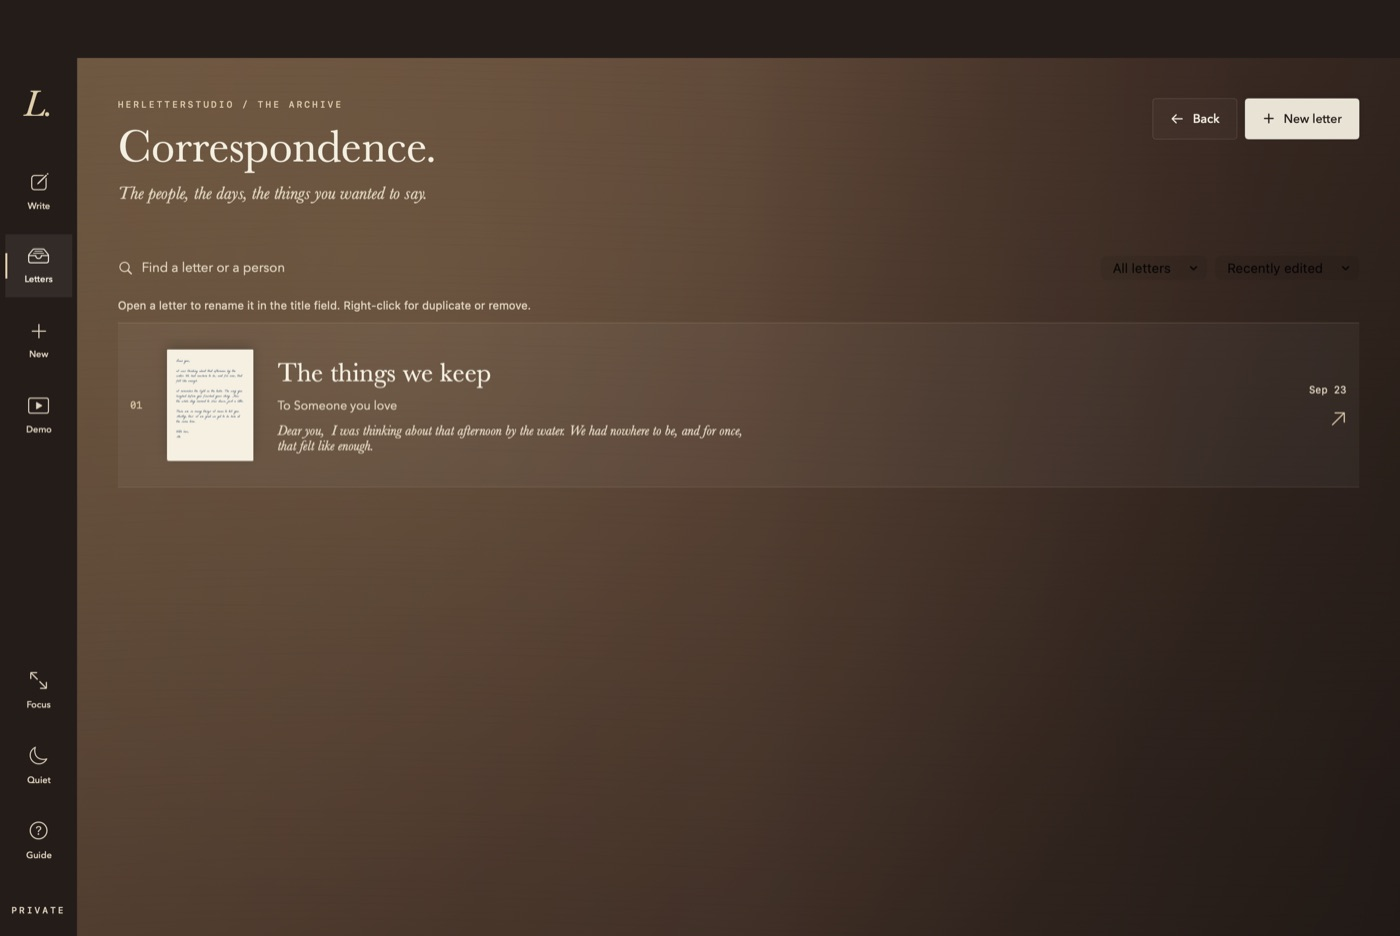
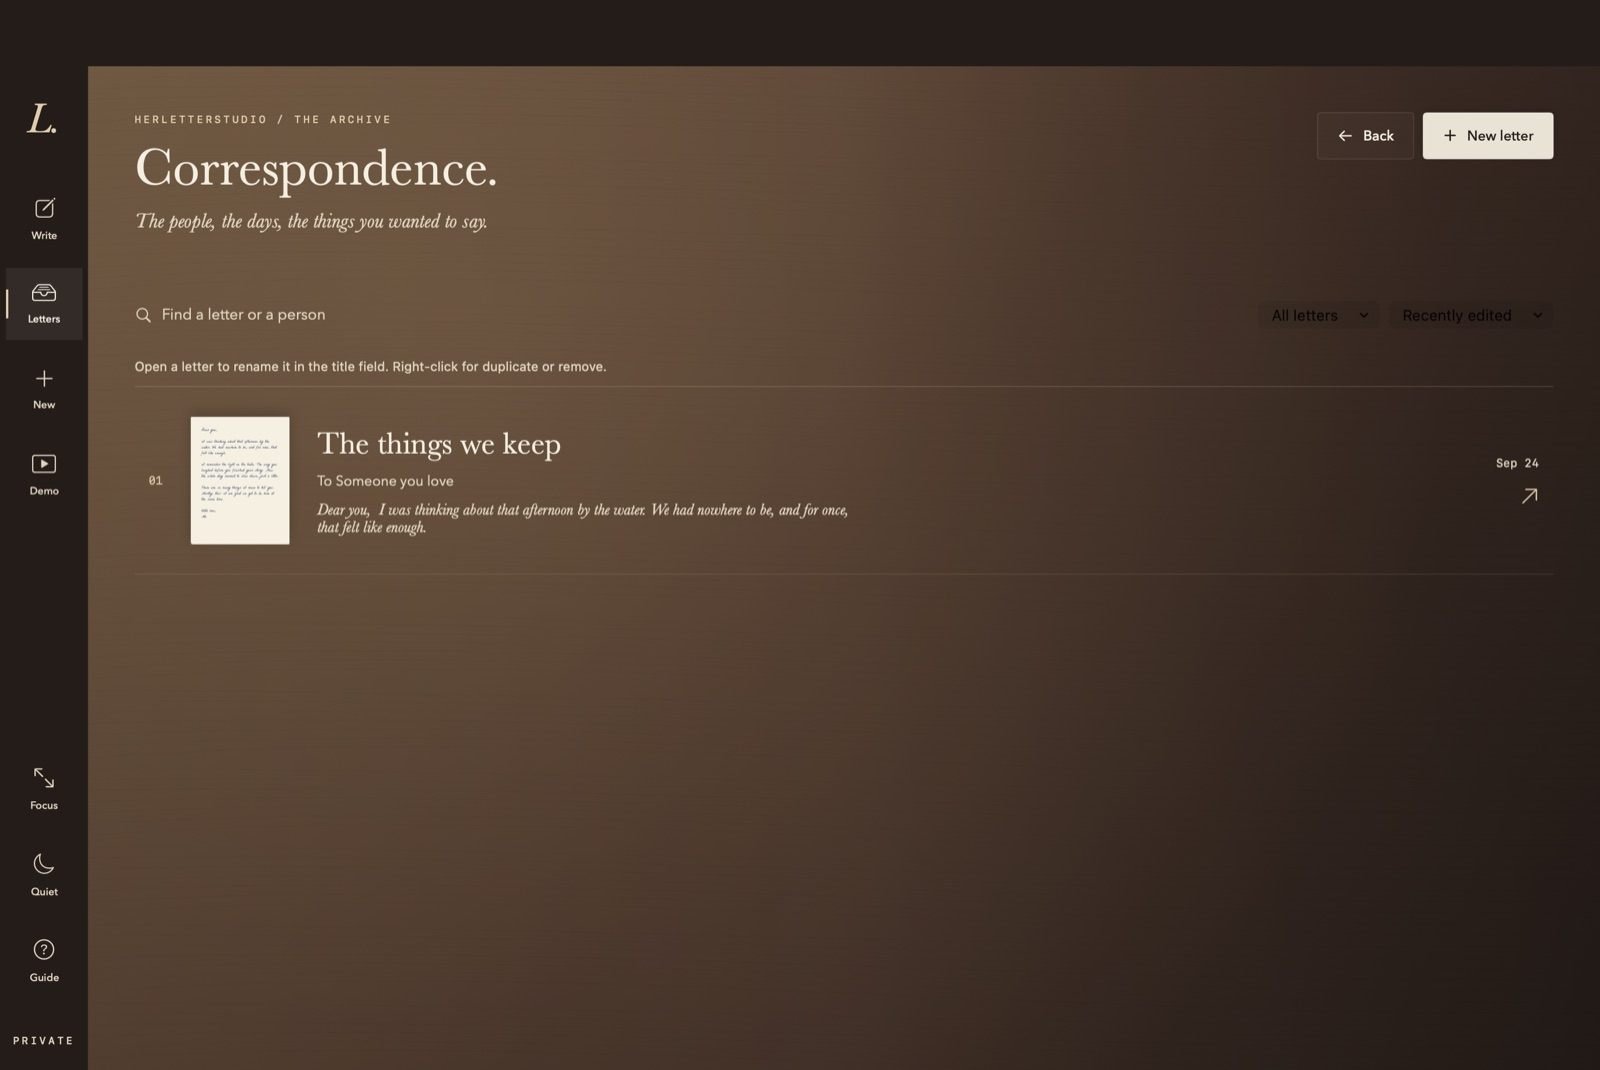
Rewrite README with feature screenshots

diff --git a/README.md b/README.md
@@ -1,50 +1,187 @@
-# HerLetterStudio
+<h1 align="center">HerLetterStudio</h1>
 
-Some letters deserve more than a font. HerLetterStudio is a native Mac writing desk inspired by *Her*: you speak or type your words, and they appear in handwriting on paper — ink, stationery, and all. When the page is right, print it or keep it as a PDF.
+<p align="center">
+  <img src="https://img.shields.io/badge/macOS-26-3E3028?style=flat&logo=apple&logoColor=white" alt="macOS 26" />
+  <img src="https://img.shields.io/badge/Swift-6.2-F05138?style=flat&logo=swift&logoColor=white" alt="Swift 6.2" />
+  <img src="https://img.shields.io/badge/SwiftUI-native-A5533D?style=flat" alt="Native SwiftUI" />
+  <img src="https://img.shields.io/badge/dictation-on--device-706154?style=flat" alt="On-device dictation" />
+  <img src="https://img.shields.io/badge/account-none-E1CDA6?style=flat" alt="No account needed" />
+</p>
 
-Dictation runs on-device. No account, no cloud, no paid API. Requires macOS 26.
+<p align="center">
+  <strong>The letter-writing desk from <em>Her</em>, on your Mac.</strong><br/>
+  Speak or type your words and watch them arrive in handwriting — ink, stationery, and all. Then print it, or keep it as a PDF.
+</p>
 
-![The writing desk: a letter in the Aurore hand on ivory paper, with the Context folio beside it](docs/screenshots/desk.jpg)
+<h3 align="center"><a href="#build"><ins>Build it locally</ins></a></h3>
 
-## Try it in 5 minutes
+<p align="center">
+  <img src="docs/screenshots/readme-hero.jpg" alt="The writing desk: a letter in the Aurore hand on ivory paper, with the Context folio beside it" width="960" />
+</p>
 
-No microphone needed. The app comes with a guided sample:
+## Features
 
-1. Build and open the app (see [Build](#build)), then click **Demo** in the left rail.
-2. Click **Open the sample letter**. You'll get "Twenty-eight ordinary years" — a fictional anniversary letter with a client brief, two credited reference photos, Parisienne lettering, and sepia ink on a one-page layout. Your current letter is saved first.
-3. In the sample Context folio, press **Watch** to replay the ink reveal, **Try an edit** for a prepared voice instruction, or **Print** for the real output preview.
+<table>
+<tr>
+<td width="50%" valign="middle">
 
-That's a finished letter, saved in Letters. Reopen it anytime — the letter and photos stay. Demo always opens a fresh copy. Now write one of your own.
+### Say It, Then Shape It
 
-## Say it, then shape it
+Press **Begin dictation** and talk — your words land on the page as you speak. Then fix them hands-free: *"Replace afternoon with evening."* *"Delete the last sentence."* Plain speech is always letter text, never a command.
 
-Press the microphone button and talk. Your words land on the page in your chosen hand while you speak. English recognition runs on-device; Apple may download speech assets the first time.
+[Voice edit list →](#voice-edits)
 
-Then open **Writing** and make it yours — fix a phrase, read it back, or open the spacious editor when you want room to think.
+</td>
+<td width="50%">
+  <img src="docs/screenshots/voice.jpg" alt="The Voice Edit panel with example instructions" width="100%" />
+</td>
+</tr>
+<tr>
+<td width="50%" valign="middle">
 
-![The Writing panel: "Every word matters", with the letter text and Read aloud close by](docs/screenshots/writing.jpg)
+### Give It a Feeling
 
-Corrections work hands-free too. In **Voice Edit**, press Speak an edit, say what you want, and Apply edit — or type the instruction instead. "Replace afternoon with evening." "Delete the last sentence." "Make it bigger." Plain speech here is treated as letter text, never as a command.
+Choose how your words sit on the page — **Tender**, **Familiar**, or **Reflective** hands, a resonance slider, and five inks from Cedar Blue-Black to Oxblood Sincerity. Presentation changes; your wording never does.
 
-## Give it a feeling
+</td>
+<td width="50%">
+  <img src="docs/screenshots/expression.jpg" alt="The Expression console with Tender selected and the resonance slider" width="100%" />
+</td>
+</tr>
+<tr>
+<td width="50%" valign="middle">
 
-Open **Expression** and choose how your words sit on the page: Tender, Familiar, or Reflective hands, a resonance slider, five inks, cotton to onion-skin stationery. These change presentation, never wording — the ink serves the letter, not the other way around.
+### Eleven Hands
 
-![The Expression console: Tender, Familiar, and Reflective hands above the resonance slider](docs/screenshots/expression.jpg)
+Seven bundled handwriting fonts and four Mac classics. Search by name or mood — try *"romantic"* or *"slanted"* — star your favorites, and preview your own letter in any hand.
 
-Eleven lettering styles live in **Fonts**, which searches names and moods (try "romantic" or "slanted"). Seven are bundled licensed handwriting fonts; four come with the Mac. Star your favorites and narrow the shelf to just those.
+</td>
+<td width="50%">
+  <img src="docs/screenshots/fonts.jpg" alt="The type collection with the Aurore specimen" width="100%" />
+</td>
+</tr>
+<tr>
+<td width="50%" valign="middle">
 
-## Keep everything
+### Choose the Paper
 
-Every letter lands in the archive — searchable, sortable, recoverable. Right-click to duplicate or set aside; rename by editing the title above the paper. **Drafts** keeps named versions across launches and always holds a safety copy before restoring. Drafts autosave under `~/Library/Application Support/HerLetterStudio`, and the File menu exports portable `.letter` files, references included. Everything stays on this Mac.
+Cotton rag, laid, vellum, onion skin, or cream bond, in four stationery colors, on US Letter or A4. Paper texture stays on screen unless you choose to print it.
 
-![The archive: past letters with their recipients and opening lines](docs/screenshots/archive.jpg)
+</td>
+<td width="50%">
+  <img src="docs/screenshots/paper.jpg" alt="The stationery drawer with paper materials and a live preview" width="100%" />
+</td>
+</tr>
+<tr>
+<td width="50%" valign="middle">
 
-Printing defaults to ink only; tick paper color to put the stationery tint on the page too. Zoom never changes print size. And **Quiet** in the rail stills all motion in one tap — dictation keeps working, the page just stops dancing.
+### A Finished Sample, Built In
 
-## Voice edits
+Click **Demo** for "Twenty-eight ordinary years" — a complete anniversary letter with a brief, two credited photos, and Parisienne lettering. Replay the ink, try an edit, print it. No microphone needed.
 
-Phrase edits need exactly one match. If an instruction is ambiguous, the text stays untouched and the panel tells you why. Up to 50 revisions per letter — wording, font, size, ink, expression — all undoable. History is session-local and clears when you switch letters.
+</td>
+<td width="50%">
+  <img src="docs/screenshots/sample.jpg" alt="The sample anniversary letter with its reference photographs" width="100%" />
+</td>
+</tr>
+<tr>
+<td width="50%" valign="middle">
+
+### Print or PDF
+
+Review the exact output before it leaves your Mac. Ink-only by default for real stationery, with paper color on request. Screen and PDF share one Core Text layout, so exported text stays selectable.
+
+</td>
+<td width="50%">
+  <img src="docs/screenshots/print.jpg" alt="Print review with the page preview, printer, and PDF options" width="100%" />
+</td>
+</tr>
+<tr>
+<td width="50%" valign="middle">
+
+### Drafts You Can Return To
+
+Keep named versions before you experiment. Restoring one always saves a safety copy of the current letter first, and drafts survive relaunches.
+
+</td>
+<td width="50%">
+  <img src="docs/screenshots/drafts.jpg" alt="The Drafts sheet with a kept version ready to restore" width="100%" />
+</td>
+</tr>
+<tr>
+<td width="50%" valign="middle">
+
+### An Archive of Correspondence
+
+Every letter is kept, searchable, and sortable. Right-click to duplicate or set one aside — removed letters wait in Recently Removed until you recover them.
+
+</td>
+<td width="50%">
+  <img src="docs/screenshots/archive.jpg" alt="The Correspondence archive listing a saved letter" width="100%" />
+</td>
+</tr>
+</table>
+
+**Also in the box:**
+
+- **Reference photos** — keep up to 12 photos and private notes beside a letter. They never print.
+- **Watch the ink** — replay the handwriting onto the page, or have the letter read aloud.
+- **Focus and Quiet** — hide the panels to just write, or still every animation in one tap.
+- **Fifty undo steps** — wording, hand, size, ink, and expression, all reversible.
+- **Portable `.letter` files** — export and reopen a letter with its photos and notes.
+- **Keyboard first** — ⌘N new, ⌘E edit, ⇧⌘D dictate, ⌘P print, ⌘S save.
+
+---
+
+## Built With
+
+Native frameworks only — no account, no cloud, no paid API.
+
+<p>
+  <a href="https://www.swift.org"><kbd><img src="https://www.google.com/s2/favicons?domain=swift.org&sz=64" alt="Swift logo" width="16" valign="middle" /> Swift</kbd></a> &nbsp;
+  <a href="https://developer.apple.com/xcode/swiftui/"><kbd><img src="https://www.google.com/s2/favicons?domain=developer.apple.com&sz=64" alt="Apple logo" width="16" valign="middle" /> SwiftUI</kbd></a> &nbsp;
+  <a href="https://developer.apple.com/documentation/appkit"><kbd><img src="https://www.google.com/s2/favicons?domain=developer.apple.com&sz=64" alt="Apple logo" width="16" valign="middle" /> AppKit</kbd></a> &nbsp;
+  <a href="https://developer.apple.com/documentation/coretext"><kbd><img src="https://www.google.com/s2/favicons?domain=developer.apple.com&sz=64" alt="Apple logo" width="16" valign="middle" /> Core Text</kbd></a> &nbsp;
+  <a href="https://developer.apple.com/documentation/pdfkit"><kbd><img src="https://www.google.com/s2/favicons?domain=developer.apple.com&sz=64" alt="Apple logo" width="16" valign="middle" /> PDFKit</kbd></a> &nbsp;
+  <a href="https://developer.apple.com/documentation/speech"><kbd><img src="https://www.google.com/s2/favicons?domain=developer.apple.com&sz=64" alt="Apple logo" width="16" valign="middle" /> Speech</kbd></a> &nbsp;
+  <a href="https://developer.apple.com/documentation/avfoundation"><kbd><img src="https://www.google.com/s2/favicons?domain=developer.apple.com&sz=64" alt="Apple logo" width="16" valign="middle" /> AVFoundation</kbd></a> &nbsp;
+  <a href="https://openfontlicense.org"><kbd>✒ OFL handwriting fonts</kbd></a>
+</p>
+
+---
+
+## Build
+
+**Requires:** macOS 26 and the Swift 6.2 toolchain (Xcode or Command Line Tools).
+
+```sh
+bash scripts/test.sh        # core checks: dictation, commands, save/load, PDF pages
+bash scripts/build-app.sh   # ad-hoc signed local app (not notarized)
+open build/HerLetterStudio.app
+```
+
+Dictation uses Apple's on-device English model; the first use may download it. Letters autosave under `~/Library/Application Support/HerLetterStudio`.
+
+<details>
+<summary><strong>More checks and screenshots</strong></summary>
+
+<br/>
+
+```sh
+bash scripts/verify-app.sh                    # app check + a full set of window snapshots in build/
+bash scripts/verify-app.sh model              # app check only
+bash scripts/verify-app.sh snapshot fonts --fonts   # one snapshot: build/fonts.png
+```
+
+Snapshots render in an isolated in-memory window, so they never touch your saved letters or your microphone.
+
+</details>
+
+---
+
+## Voice Edits
+
+Phrase edits need exactly one match. If an instruction is ambiguous, the text stays untouched and the panel says why.
 
 | Say or type | Effect |
 |---|---|
@@ -60,37 +197,19 @@ Phrase edits need exactly one match. If an instruction is ambiguous, the text st
 | “A little more tender”, “more reflective”, “change ink to oxblood sincerity” | Adjust presentation only |
 | “Send to the writing desk” | Open print review |
 
-## Build
+---
 
-```sh
-bash scripts/test.sh        # core checks: dictation, pagination/PDF, storage, commands
-bash scripts/build-app.sh   # ad-hoc signed local app (not notarized)
-open 'build/HerLetterStudio.app'
-```
+## Honest Limits
 
-Going deeper — screenshots land under `build/`:
+- The build is ad-hoc signed, not a notarized public release.
+- Printing was checked through PDF dimensions and the print preview, not on a physical printer. Your own dictation accuracy is yours to try.
+- This is font-based rendering, not a learned copy of your handwriting. It won't synthesize pen strokes.
+- Automated checks are a small happy path, not full coverage.
 
-```sh
-bash scripts/verify-app.sh              # app checks + window snapshots
-bash scripts/verify-app.sh voice        # recorded-speech recognition
-bash scripts/verify-app.sh voice-edit   # spoken edit instructions
-bash scripts/verify-app.sh interaction  # click/type smoke test in an isolated window; never touches your drafts or microphone
-bash scripts/verify-app.sh microphone   # real microphone capture
-bash scripts/verify-app.sh transition transition-scripted  # repeatable workspace drive; append an audio path for recorded speech
-```
+## Credits
 
-## Honest limits
+Handwriting fonts are bundled under the SIL Open Font License; see [`SOURCES.md`](Sources/LetterCore/Resources/Fonts/SOURCES.md). Sample photographs by Luca Bravo and Nathan Dumlao on Unsplash; see [`CREDITS.md`](Sources/LetterCore/Resources/Walkthrough/CREDITS.md).
 
-The build is ad-hoc signed, not a notarized public distribution. A physical printer was never set up during development — PDF dimensions and the print-preview path check out, but paper output and your own dictation accuracy are still yours to try. Screen and PDF share one Core Text layout, so exported text stays selectable; photos and UI decorations never print. And to be clear: this is font-based rendering, not a learned copy of your handwriting — it won't synthesize pen strokes or feel anything about your letter.
+## License
 
-## Docs map
-
-| Doc | What it answers |
-|---|---|
-| `SPEC.md` | What was built, and the exact build/verify commands |
-| `DESIGN.md` | The visual thesis and review decisions |
-| `research/FINDINGS.md` | Film references and sources |
-| `LONGHAND.md` | Feasibility map: software, research, and hardware boundaries |
-| `PRINTER.md` | Printer shortlist, paper limits, store-integration findings |
-| `WORKFLOW-AUDIT.md` | Remaining limitations and verification coverage |
-| `PROGRESS.md` | Build history and what's next |
+No license file yet, so all rights are reserved by default. The bundled fonts keep their own OFL licenses.
